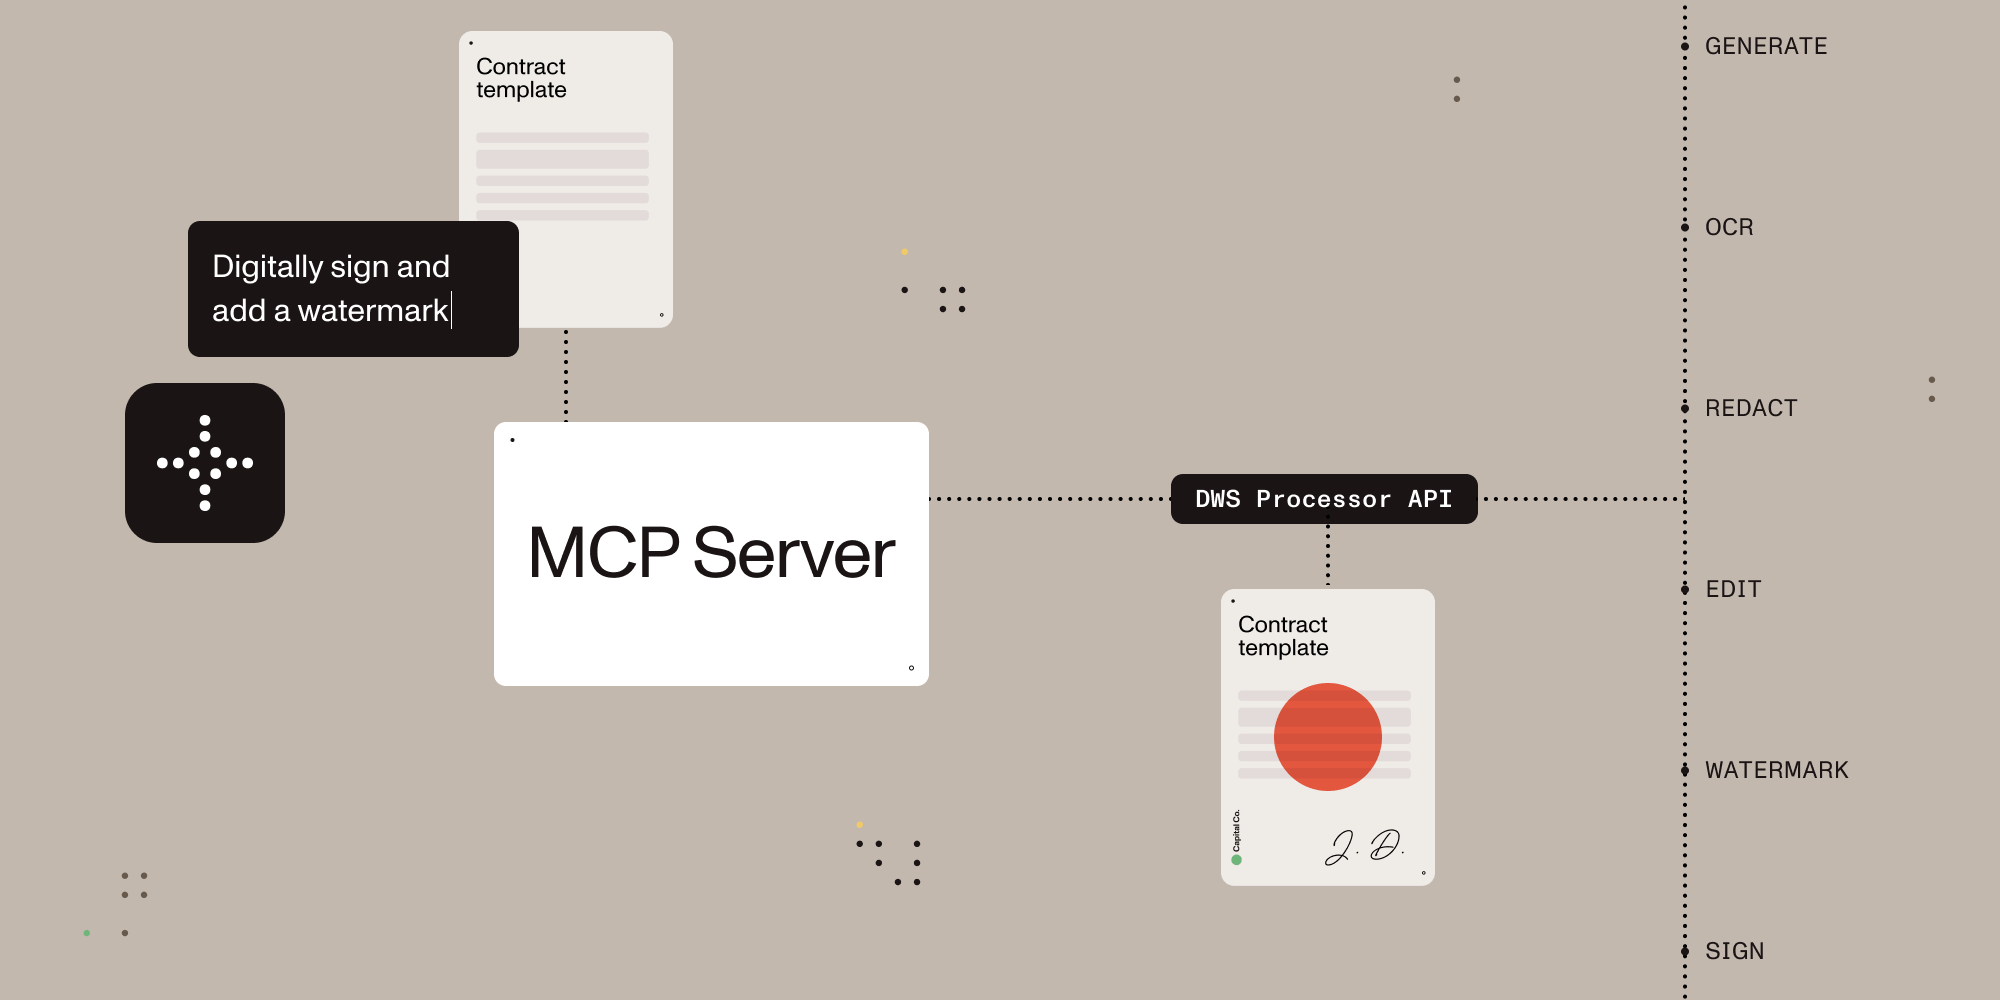
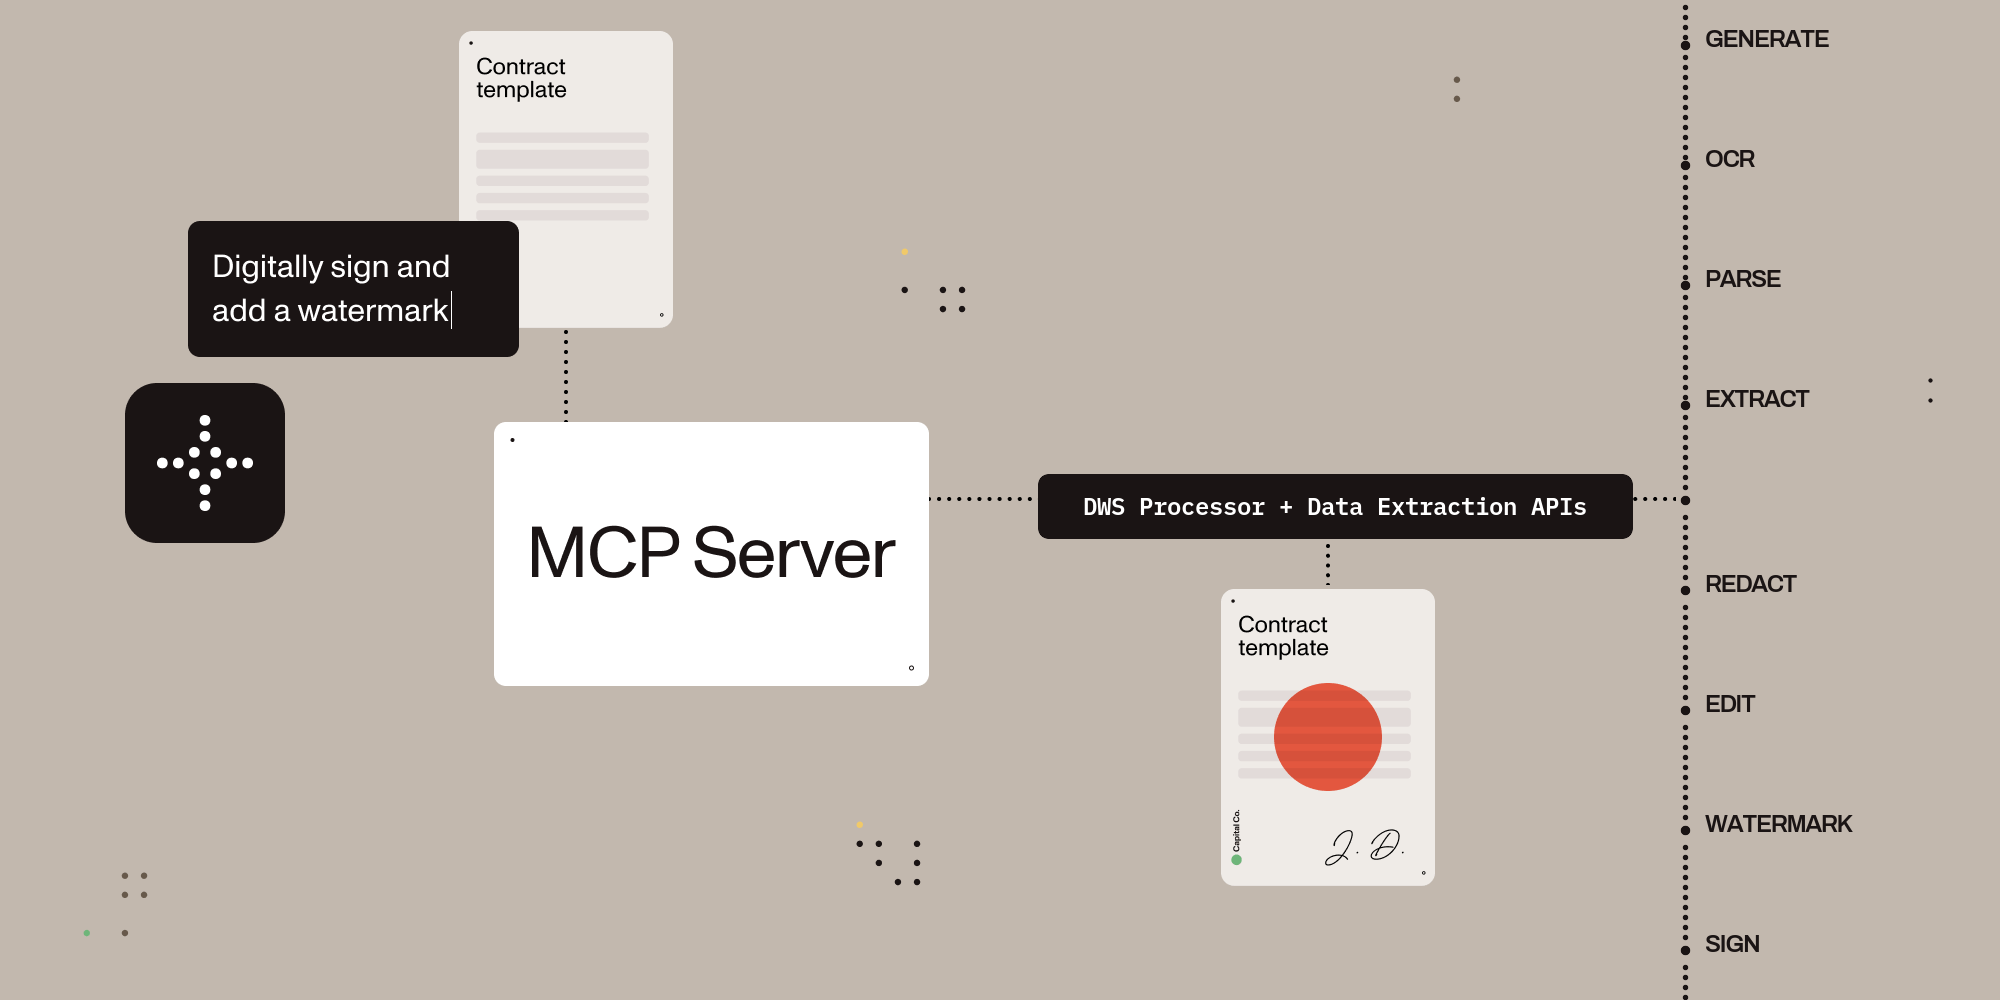
docs: surface Data Extraction API in README copy and header image (#40)

diff --git a/README.md b/README.md
@@ -6,19 +6,20 @@
   <img width="380" height="200" src="https://glama.ai/mcp/servers/@PSPDFKit/nutrient-dws-mcp-server/badge" alt="Nutrient DWS MCP Server" />
 </a>
 
-[![npm](https://img.shields.io/npm/v/%40nutrient-sdk/dws-mcp-server)](https://www.npmjs.com/package/@nutrient-sdk/dws-mcp-server)
+[![npm](https://img.shields.io/npm/v/%40nutrient-sdk/dws-mcp-server)](https://www.npmjs.com/package/@nutrient-sdk/dws-mcp-server) [![smithery badge](https://smithery.ai/badge/nutrient/dws-mcp-server)](https://smithery.ai/servers/nutrient/dws-mcp-server)
 
-**Give AI agents the power to process, sign, and transform documents.**
+**Give AI agents the power to generate, read, extract, process, and sign documents.**
 
 ## Description
 
-A Model Context Protocol (MCP) server that connects AI assistants to the [Nutrient Document Web Service (DWS) Processor API](https://www.nutrient.io/api) — enabling document creation, editing, conversion, digital signing, OCR, redaction, and more through natural language.
+A Model Context Protocol (MCP) server that connects AI assistants to the [Nutrient Document Web Service (DWS)](https://www.nutrient.io/api) Processor and Data Extraction APIs — enabling document creation, editing, conversion, digital signing, OCR, and redaction, plus structured data extraction (typed JSON with bounding boxes and confidence, or schema-guided field extraction with per-field citations) through natural language.
 
 ## Features
 
 - Local stdio MCP server for Claude Desktop and other MCP-compatible clients
 - Browser-based OAuth on the first request that uses the Nutrient API, with optional API-key fallback for CI and headless environments
-- Document conversion, OCR, extraction, redaction, watermarking, annotation flattening, and digital signing
+- Document conversion, OCR, redaction, watermarking, annotation flattening, and digital signing (Processor API)
+- Data extraction (Data Extraction API): parse whole documents to Markdown or spatial JSON, then pull named fields into a JSON schema you define, with per-field citations. Four parse modes: `text` (1 credit/page, no OCR), `structure` (1.5), `understand` (9, the default), `agentic` (18, VLM)
 - Sandbox-aware local file handling with explicit output paths
 - Read-only account lookup for DWS credits and usage
 
@@ -40,6 +41,9 @@ Once configured, you (or your AI agent) can process documents through natural la
 
 **You:** _"OCR this scanned document in German and extract the text"_
 **AI:** _"I've processed the scan with German OCR. Here's the extracted text..."_
+
+**You:** _"Pull the vendor, invoice number, total, and due date out of invoice-0341.pdf, with citations"_
+**AI:** _"Here are the four fields as JSON. Each value cites the page and bounding box it came from..."_
 
 ## Installation
 
@@ -265,6 +269,12 @@ These examples assume your files live inside the configured sandbox and that you
 **User prompt:** `Check my Nutrient credits, convert /path/to/sandbox/report.docx to PDF, save it as /path/to/sandbox/report.pdf, and then tell me where the output file was written.`
 
 **What happens:** The server first performs a read-only account lookup, then converts the DOCX file to PDF, saves the result in the sandbox, and tells the user exactly where the output file was written.
+
+### Example 4: Schema-guided field extraction with citations
+
+**User prompt:** `Extract vendor_name, invoice_number, total_amount and due_date from /path/to/sandbox/invoice-0341.pdf and save the citations next to it.`
+
+**What happens:** The agent calls `extract_fields` with a small JSON schema (`{ "type": "object", "properties": { "vendor_name": {"type": "string"}, "invoice_number": {"type": "string"}, "total_amount": {"type": "string"}, "due_date": {"type": "string"} } }`) and an `outputPath`. The server sends the PDF to the Data Extraction API, returns the four values inline as JSON with a citation match summary, and writes the full per-field citations (page, bounding box, confidence) to the output file for auditing.
 
 ## Use with AI Agent Frameworks
 
